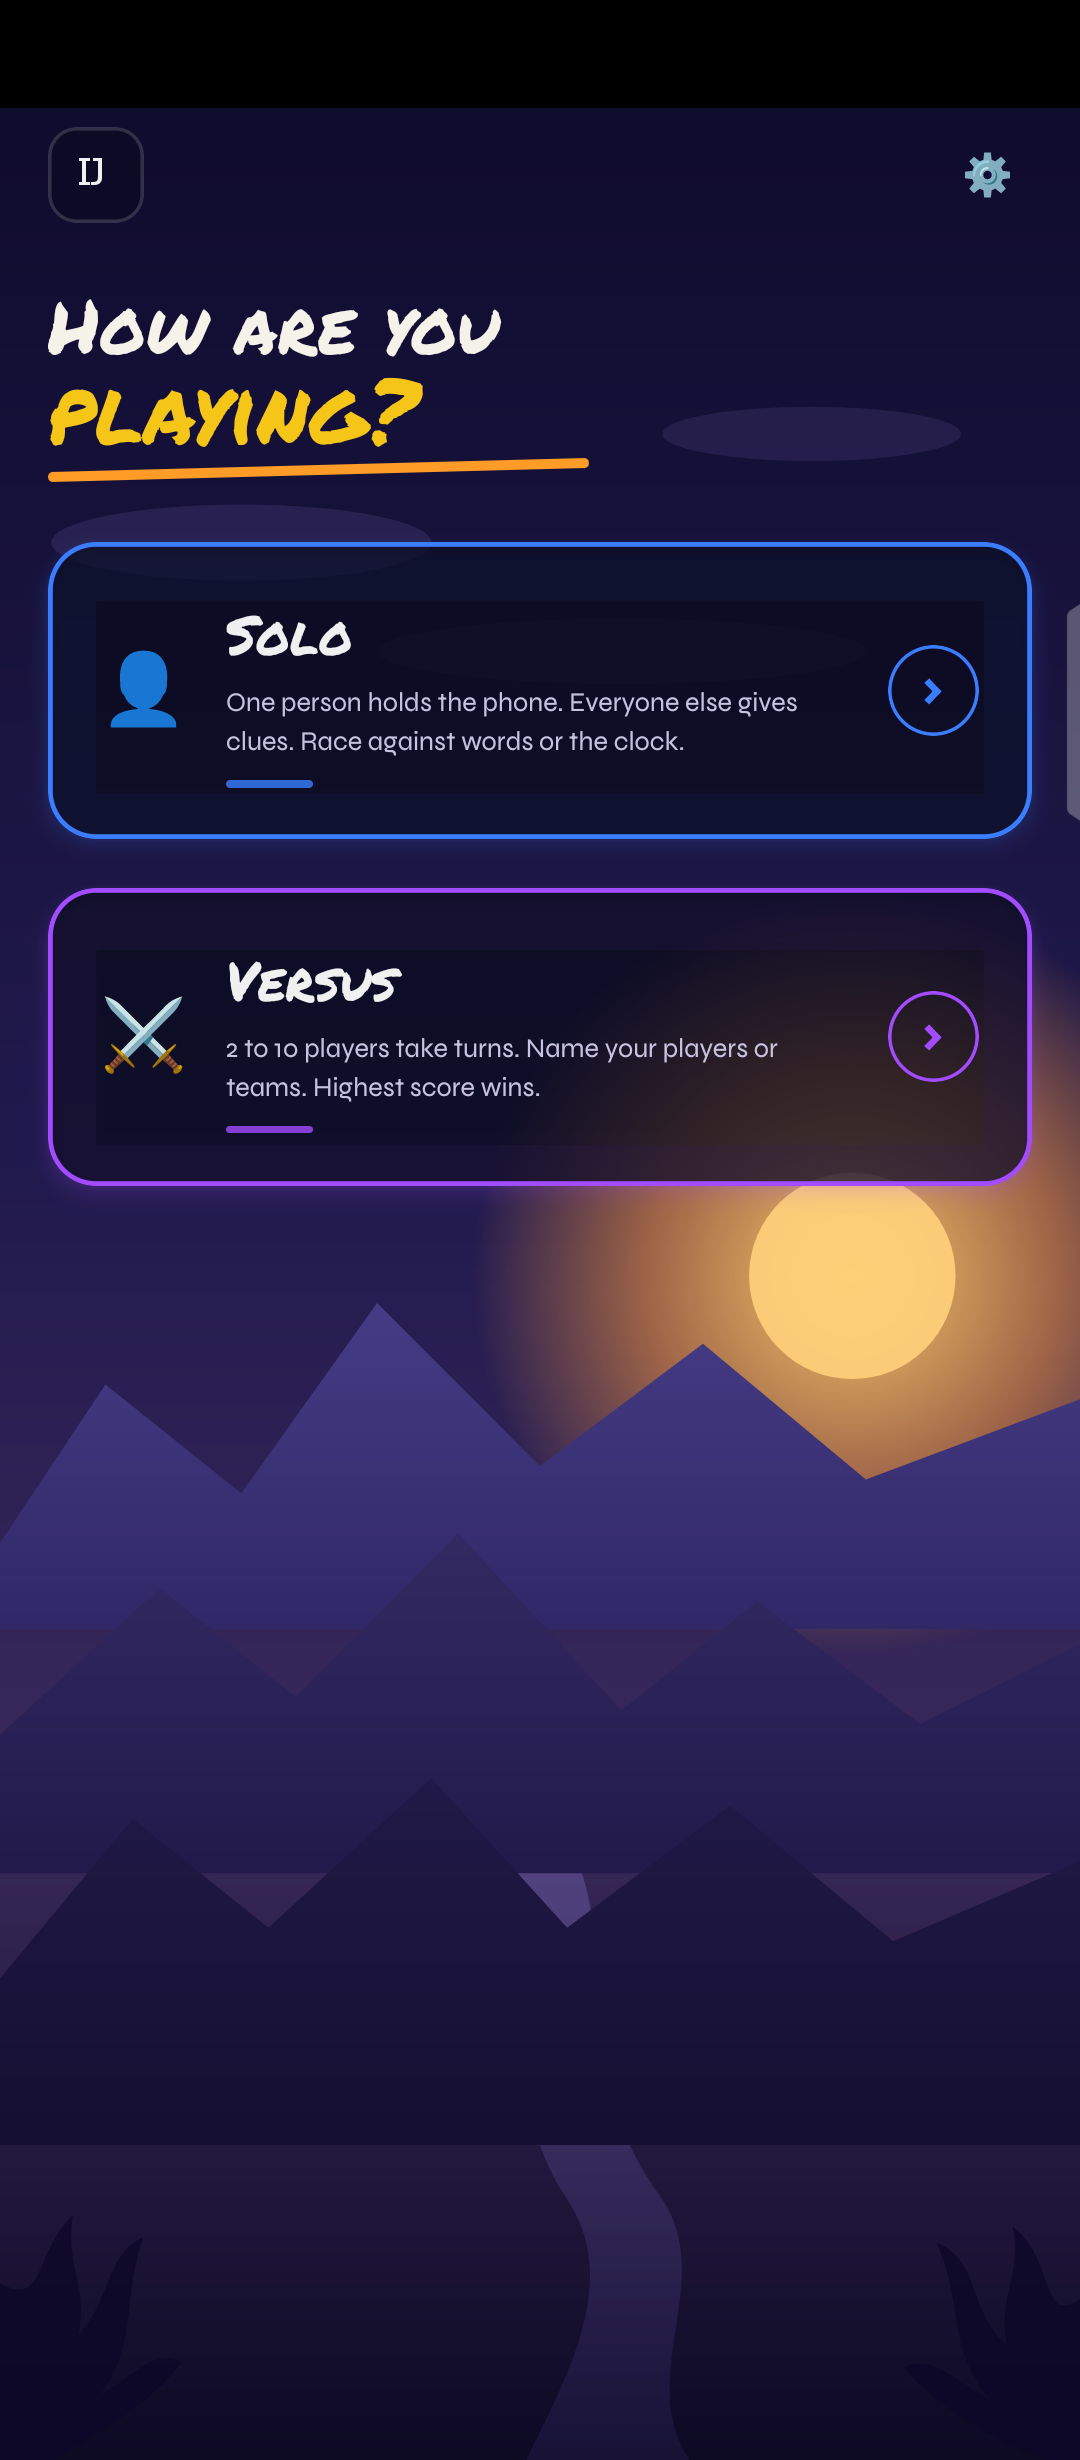
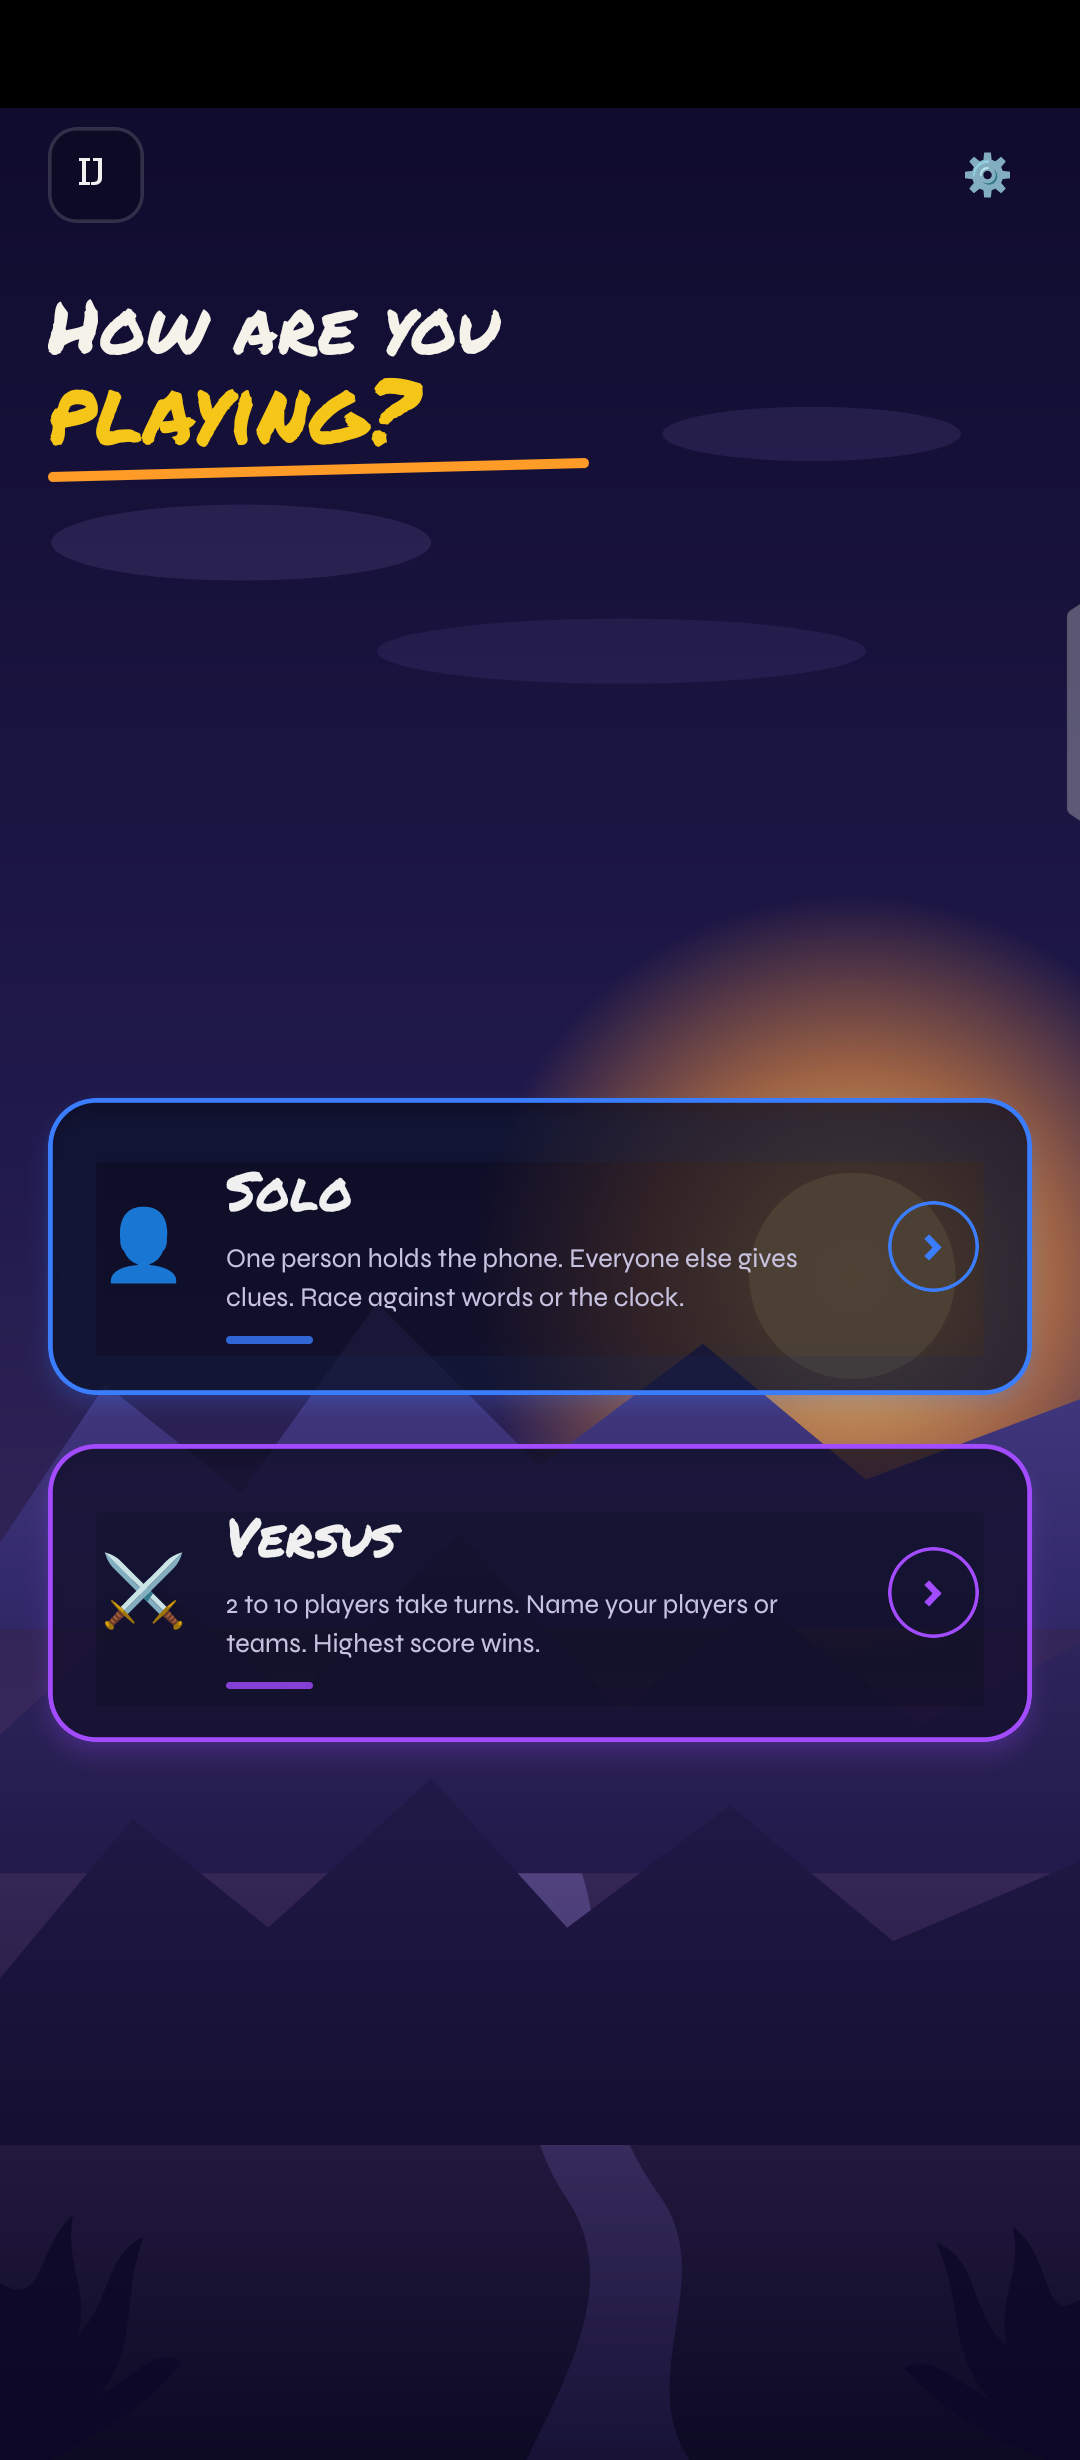
Center Mode Select cards vertically to use the full screen
Solo/Versus cards were packed right under the title, leaving the bottom
half of the screen empty. Now centered in the remaining space below the
title, matching the reference design's use of the full screen height.

diff --git a/mobile/src/app/mode-select.tsx b/mobile/src/app/mode-select.tsx
@@ -69,21 +69,23 @@ export default function ModeSelectScreen() {
           </View>
         </View>
 
-        <View style={styles.cards}>
-          <ModeCard
-            icon={'👤'}
-            accent="#3a7dff"
-            title="Solo"
-            desc="One person holds the phone. Everyone else gives clues. Race against words or the clock."
-            onPress={() => choose('solo')}
-          />
-          <ModeCard
-            icon={'⚔'}
-            accent="#a24bff"
-            title="Versus"
-            desc="2 to 10 players take turns. Name your players or teams. Highest score wins."
-            onPress={() => choose('versus')}
-          />
+        <View style={styles.cardsWrap}>
+          <View style={styles.cards}>
+            <ModeCard
+              icon={'👤'}
+              accent="#3a7dff"
+              title="Solo"
+              desc="One person holds the phone. Everyone else gives clues. Race against words or the clock."
+              onPress={() => choose('solo')}
+            />
+            <ModeCard
+              icon={'⚔'}
+              accent="#a24bff"
+              title="Versus"
+              desc="2 to 10 players take turns. Name your players or teams. Highest score wins."
+              onPress={() => choose('versus')}
+            />
+          </View>
         </View>
       </View>
     </Screen>
@@ -106,7 +108,8 @@ const styles = StyleSheet.create({
   backIcon: { color: colors.text, fontSize: 18 },
   settingsBtn: { padding: 8 },
   settingsIcon: { fontSize: 20 },
-  titleWrap: { marginTop: 24, marginBottom: 28 },
+  titleWrap: { marginTop: 24 },
+  cardsWrap: { flex: 1, justifyContent: 'center', paddingBottom: 40 },
   titleTop: { fontFamily: fonts.brush, fontSize: 36, color: '#f5f2ea', lineHeight: 42 },
   titleBottom: { fontFamily: fonts.brush, fontSize: 44, color: colors.accent, lineHeight: 50, marginTop: -4 },
   titleUnderline: {
